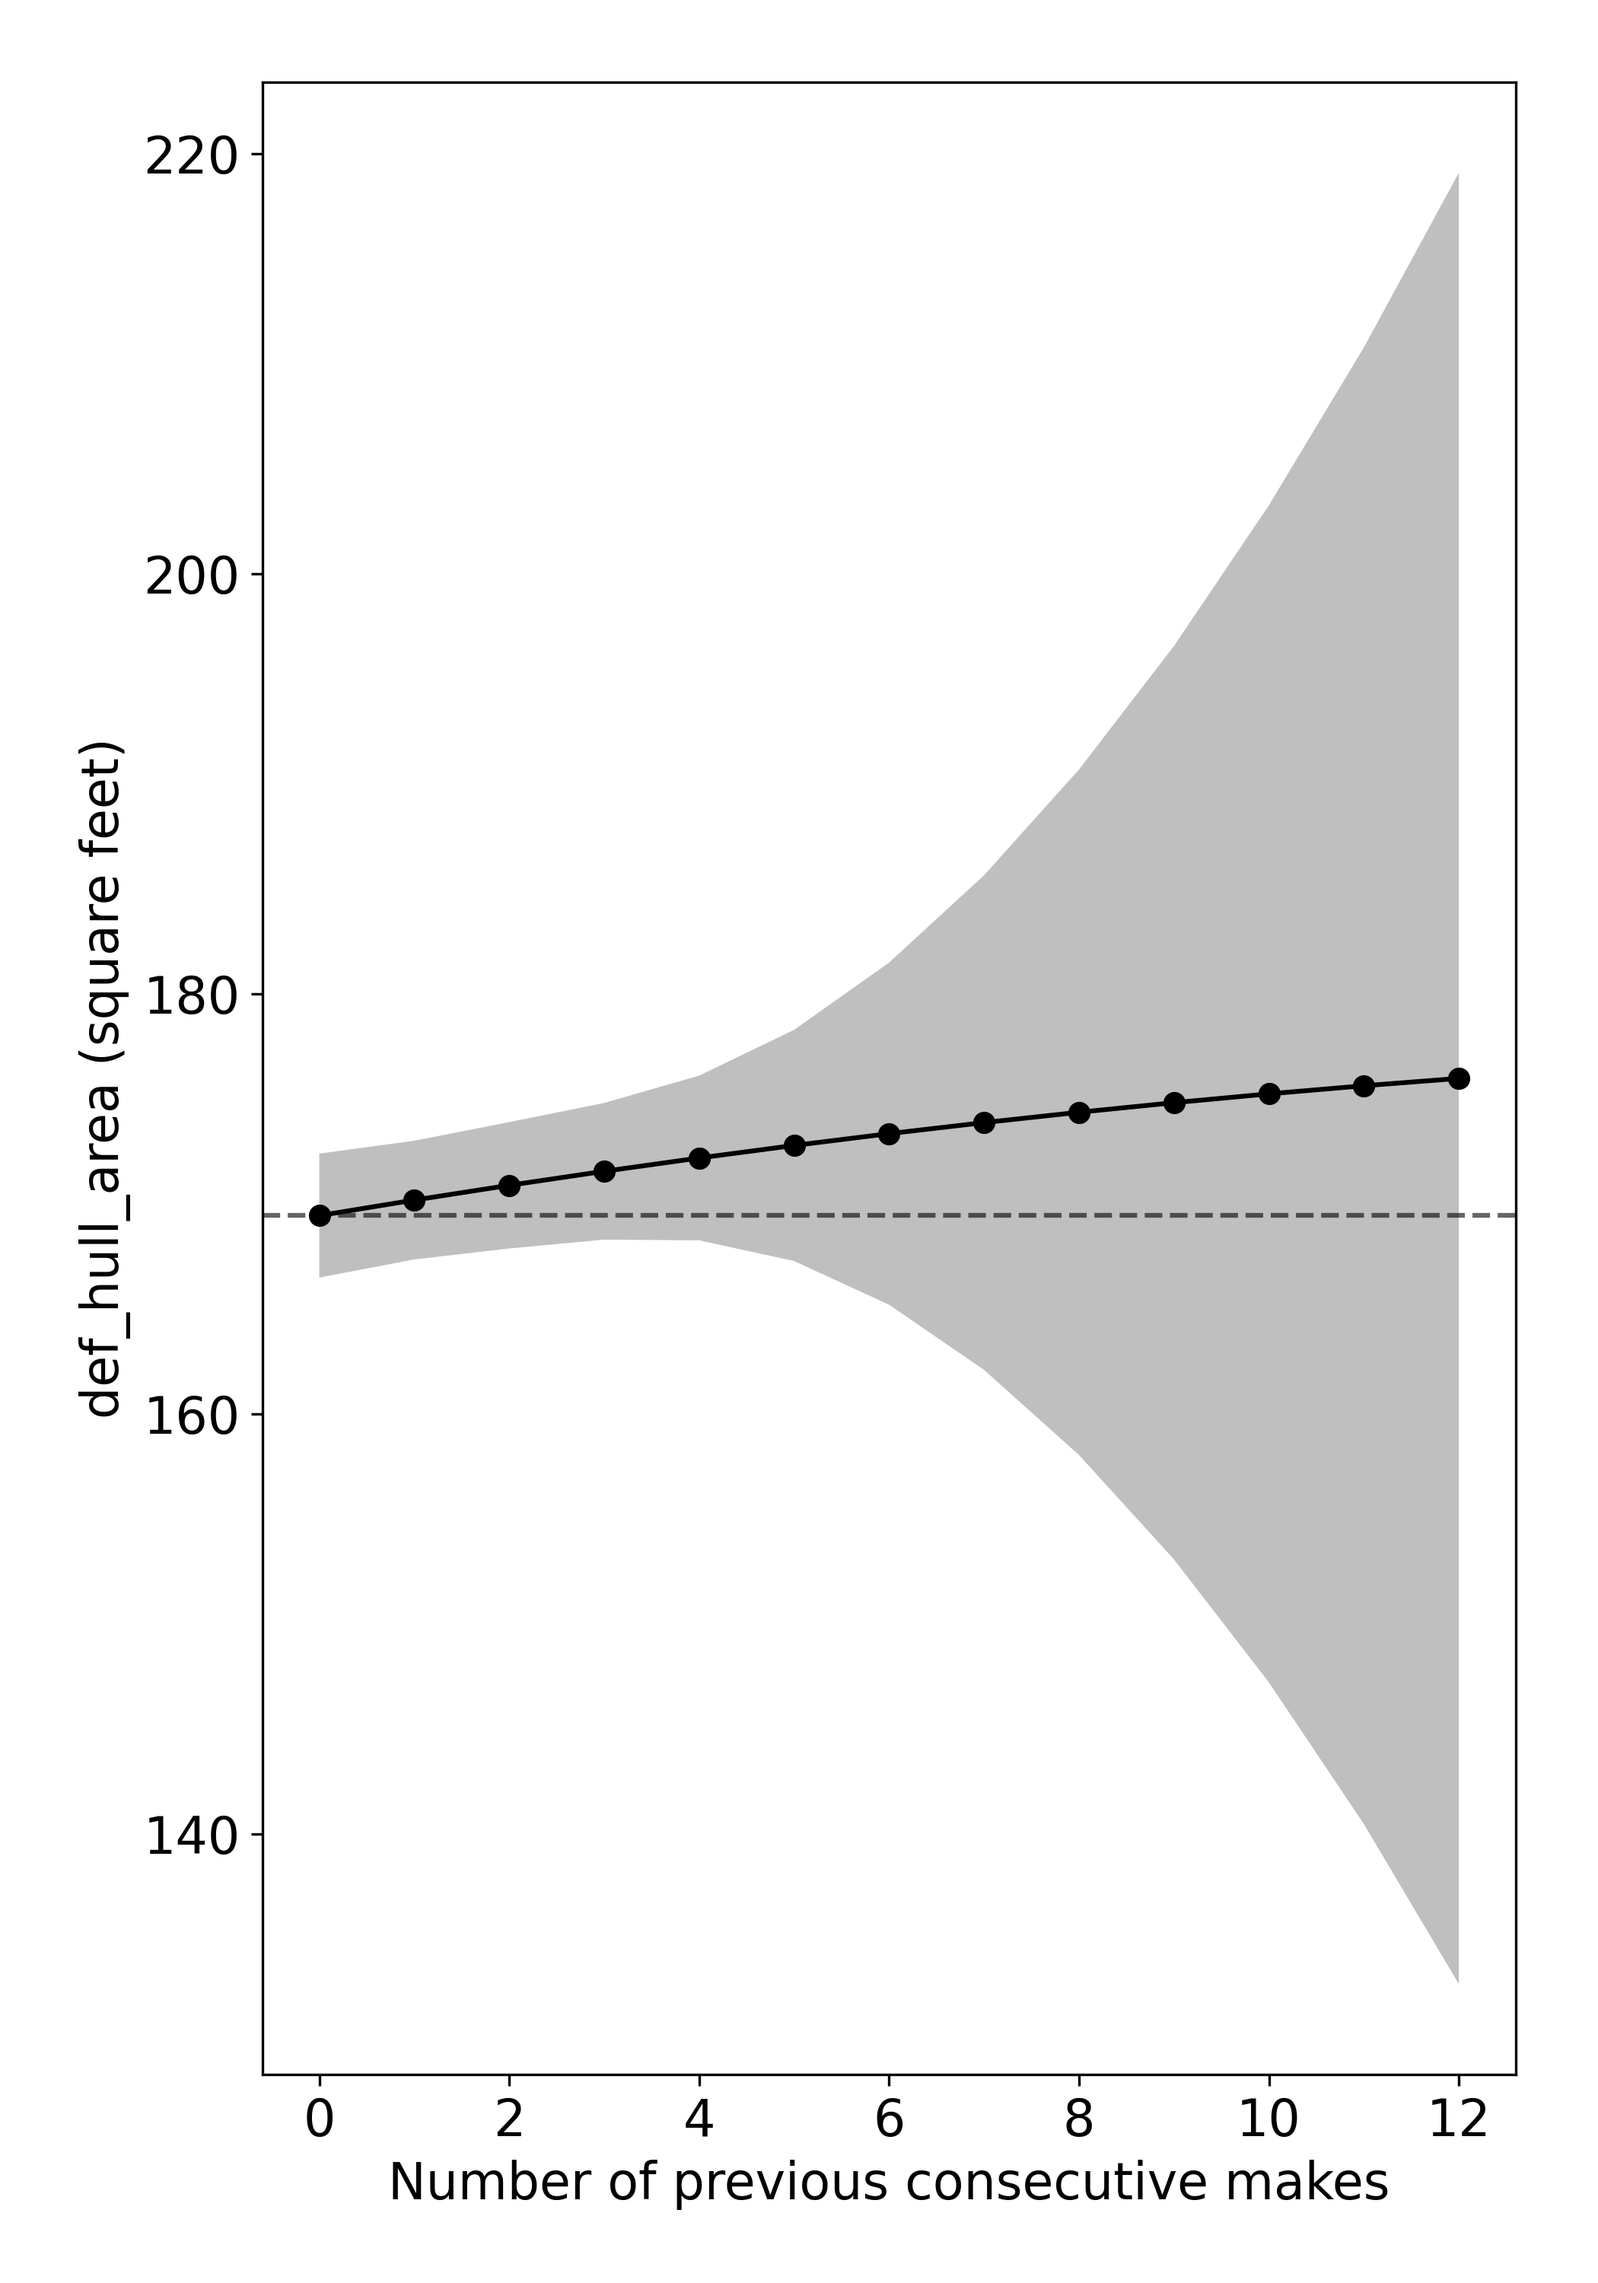
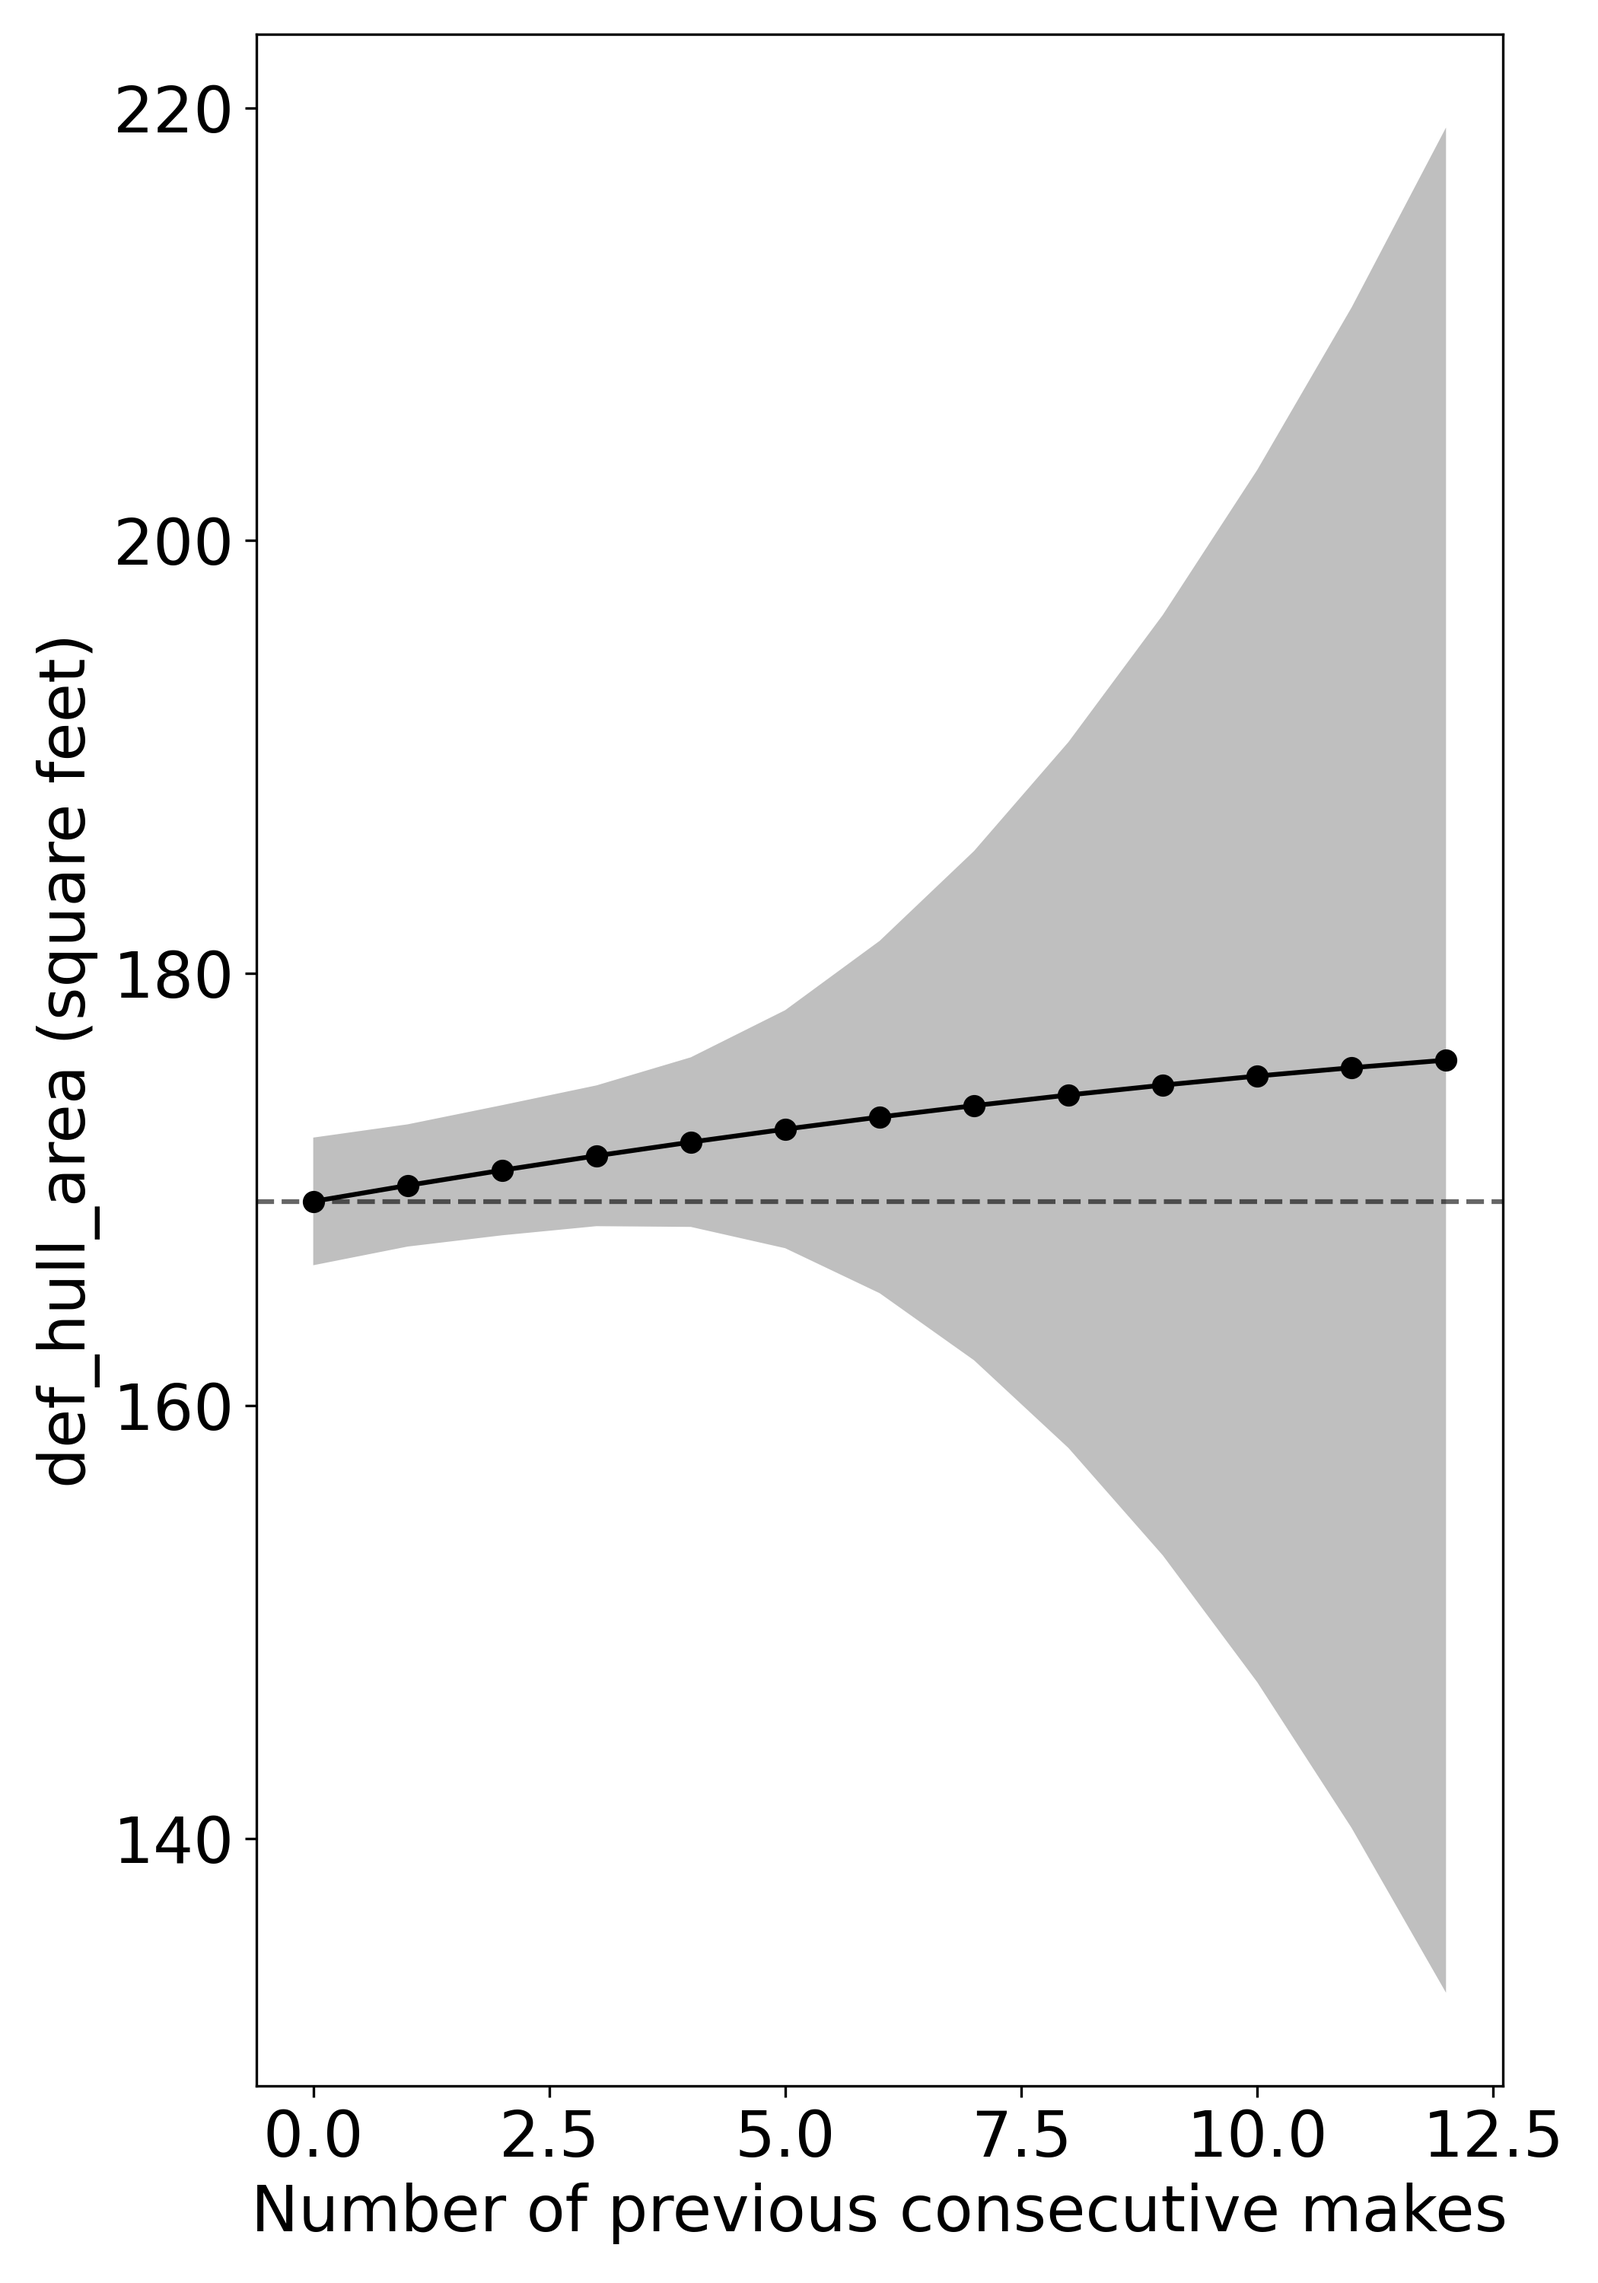
Add fontsize argument for plotting

diff --git a/src/plots.py b/src/plots.py
@@ -9,7 +9,7 @@ if not os.path.exists(PLOTS_DIR):
 
 plt.style.use("grayscale")
 
-def plot_cis(dfs, x_col, mean_col='mean', low_col='mean_ci_lower', high_col='mean_ci_upper', x_label="", y_labels=[], save_file=None):
+def plot_cis(dfs, x_col, mean_col='mean', low_col='mean_ci_lower', high_col='mean_ci_upper', x_label="", y_labels=[], font_size=16, save_file=None):
     """
     Plot multiple confidence intervals in a vertical layout.
 
@@ -21,6 +21,7 @@ def plot_cis(dfs, x_col, mean_col='mean', low_col='mean_ci_lower', high_col='mea
         high_col (str, optional): Column name for CI upper bound values. Defaults to 'mean_ci_upper'.
         x_label (str, optional): Label for x-axis. Defaults to "".
         y_labels (list, optional): List of labels for y-axes. Defaults to [].
+        font_size (int, optional): Font size for labels and ticks. Defaults to 16.
         save_file (str, optional): File name for saving plots. Defaults to None.
     """
     # One subplot per df confidence interval
@@ -36,12 +37,12 @@ def plot_cis(dfs, x_col, mean_col='mean', low_col='mean_ci_lower', high_col='mea
     for ax, df, y_label in zip(axes, dfs, y_labels):
         ax.plot(df[x_col], df[mean_col], marker='o')
         ax.fill_between(df[x_col], df[low_col], df[high_col], alpha=0.25)
-        ax.set_ylabel(y_label, fontsize=16)
+        ax.set_ylabel(y_label, fontsize=font_size)
         # Mean line for first data point (baseline)
         ax.axhline(df[mean_col].iloc[0], linestyle="--", alpha=0.6)
-        ax.tick_params(axis='both', labelsize=16)
+        ax.tick_params(axis='both', labelsize=font_size)
     
-    axes[-1].set_xlabel(x_label, fontsize=16)
+    axes[-1].set_xlabel(x_label, fontsize=font_size)
     plt.tight_layout()
     
     if save_file:

diff --git a/src/experiments/defense_during_streaks.py b/src/experiments/defense_during_streaks.py
@@ -275,6 +275,7 @@ def prepare_and_plot_ols_model(df, model, metric, fname):
         x_col='streak', mean_col='mean', low_col='mean_ci_lower', high_col='mean_ci_upper',
         x_label=f'Number of previous consecutive makes',
         y_labels=[metric_with_unit],
+        font_size=20,
         save_file=fname
     )
 
@@ -353,7 +354,7 @@ def additional_runs():
             os.path.join(STREAK_REG_PLOTS_DIR, 'def_hull_area_poly_2_ci.png')
         ],
         os.path.join(STREAK_REG_PLOTS_DIR, 'streak_poly_2_plots.png'),
-        layout='stack21'
+        layout='vert'
     )
 
 
